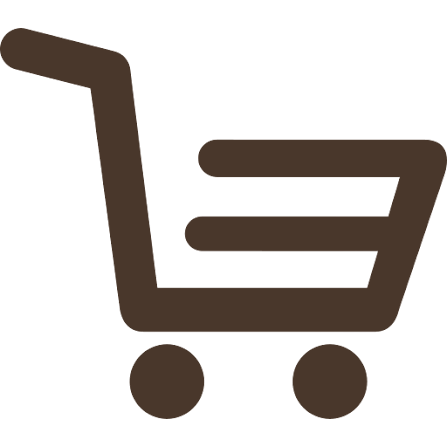
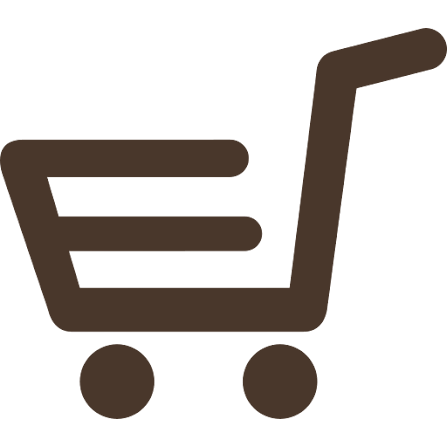
Push

diff --git a/src/pages/index.html b/src/pages/index.html
@@ -146,14 +146,82 @@
             <option value="cartao">Cartão</option>
             <option value="boleto">Boleto</option>
         </select>
+        <div id="dados-pagamento"></div>
+
+        <form id="form-pagamento">
+            <label for="cpf">CPF</label>
+            <input type="text" id="cpf" placeholder="Digite seu CPF (11 números)" maxlength="14" required>
+
+            <!-- Campos que serão preenchidos sozinhos se o ID já tiver endereço no banco -->
+            <div id="campos-endereco" style="margin-top: 15px;">
+                <h3>Endereço de Entrega</h3>
+                <input type="text" id="cep" placeholder="CEP" required>
+                <input type="text" id="rua" placeholder="Rua" required>
+                <input type="text" id="numero" placeholder="Número" required>
+                <input type="text" id="cidade" placeholder="Cidade" required>
+            </div>
+        </form>
 
         <div id="dados-pagamento"></div>
 
-        <button id="confirmar-pagamento">
+        <button type="button" id="confirmar-pagamento">
             Confirmar pedido
         </button>
 
     </section>
+
+    <script>
+        const inputCpf = document.getElementById("cpf");
+        let idClienteAtual = null; // Guarda o ID encontrado para usar depois na hora de salvar o pedido
+
+        // Dispara automaticamente enquanto a pessoa digita o CPF
+        inputCpf.addEventListener("input", async function () {
+            const cpf = inputCpf.value.replace(/\D/g, "").trim();
+
+            // Só consulta o banco quando completar os 11 dígitos do CPF
+            if (cpf.length !== 11) return;
+
+            try {
+                // Busca o cliente pelo CPF
+                const resp = await fetch("http://localhost:3000/clientes");
+                const clientes = await resp.json();
+                const clienteEncontrado = clientes.find(c => c.cpf === cpf);
+
+                if (clienteEncontrado) {
+                    // AQUI TÁ O ID DO CLIENTE NO SQL!
+                    idClienteAtual = clienteEncontrado.id_cliente;
+
+                    // Busca na rota de endereços se já existe algo ligado a esse id_cliente
+                    // (Confira no seu server.js se a rota é /enderecos ou /endereco)
+                    const respEnd = await fetch("http://localhost:3000/enderecos");
+                    const enderecos = await respEnd.json();
+
+                    // Procura um endereço onde o id_cliente seja igual ao do cliente encontrado
+                    const enderecoEncontrado = enderecos.find(e => e.id_cliente === idClienteAtual);
+
+                    if (enderecoEncontrado) {
+                        // Se achou no banco, preenche as caixinhas sozinho
+                        document.getElementById("cep").value = enderecoEncontrado.cep;
+                        document.getElementById("rua").value = enderecoEncontrado.rua;
+                        document.getElementById("numero").value = enderecoEncontrado.numero;
+                        document.getElementById("cidade").value = enderecoEncontrado.cidade;
+                    } else {
+                        // Se não achou, limpa os campos para o usuário preencher
+                        document.getElementById("cep").value = "";
+                        document.getElementById("rua").value = "";
+                        document.getElementById("numero").value = "";
+                        document.getElementById("cidade").value = "";
+                        alert("Nenhum endereço cadastrado para este CPF. Preencha os dados de entrega abaixo!");
+                    }
+                } else {
+                    idClienteAtual = null;
+                    alert("CPF não encontrado no cadastro!");
+                }
+            } catch (erro) {
+                console.error("Erro ao buscar cliente/endereço:", erro);
+            }
+        });
+    </script>
 
     <!-- SOBRE -->
     <section class="sobre" id="sobre">

diff --git a/src/pages/app.js b/src/pages/app.js
@@ -126,6 +126,12 @@ function mostrarCarrinho() {
 
 // ABRIR PAGAMENTO
 document.getElementById("finalizar-compra").addEventListener("click", function() {
+    if(!localStorage.getItem("clienteLogado")) {
+        alert("Faça login para finalizar a compra!");
+        window.location.href = "login.html";
+        return;
+
+    }
     if (carrinho.length === 0) {
         alert("Seu carrinho está vazio!");
         return;
@@ -261,7 +267,7 @@ function verificarLogin() {
     const botaoCadastrar = document.querySelector('nav a[href="signup.html"]');
     const botaoEntrar = document.querySelector('nav a[href="login.html"]');
     const botaoCarrinho = document.querySelector('nav a[href="#carrinho"]');
-
+    
     if (clienteSalvo) {
         const cliente = JSON.parse(clienteSalvo);
 
@@ -290,7 +296,7 @@ function verificarLogin() {
                 event.preventDefault();
                 alert("Faça login para acessar o carrinho!");
                 window.location.href = "login.html";
-            })
+            });
         }
     }
 }

diff --git a/src/pages/main.css b/src/pages/main.css
@@ -114,7 +114,7 @@ nav a:hover {
     opacity: 1;
     z-index: 2;
     pointer-events: auto;
-    animation: fadeInSlide 1s ease forwards; /* Mude 0.8s se quiser mais rápido ou devagar */
+    animation: fadeInSlide 0.5s ease forwards; /* Mude 0.8s se quiser mais rápido ou devagar */
 }
 
 @keyframes fadeInSlide {
@@ -167,6 +167,10 @@ nav a:hover {
     cursor: pointer;
     border-radius: 50%;
     z-index: 3;
+}
+
+.seta:hover{
+    background: #A47755;
 }
 
 .anterior {
